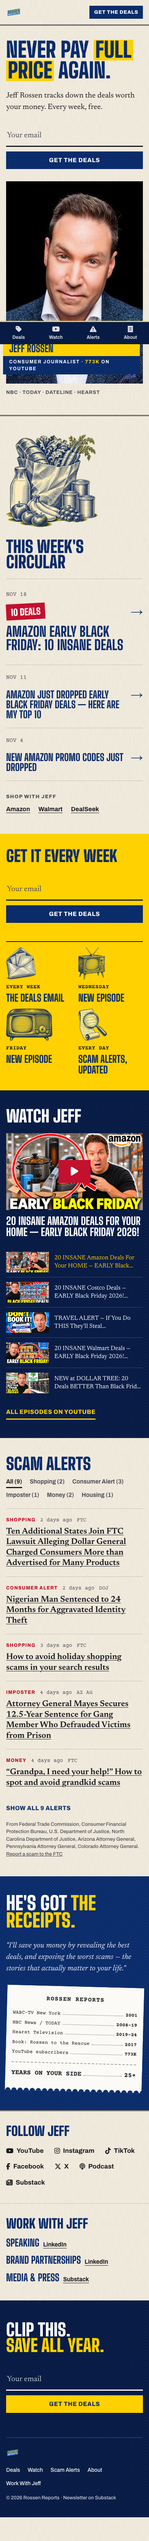
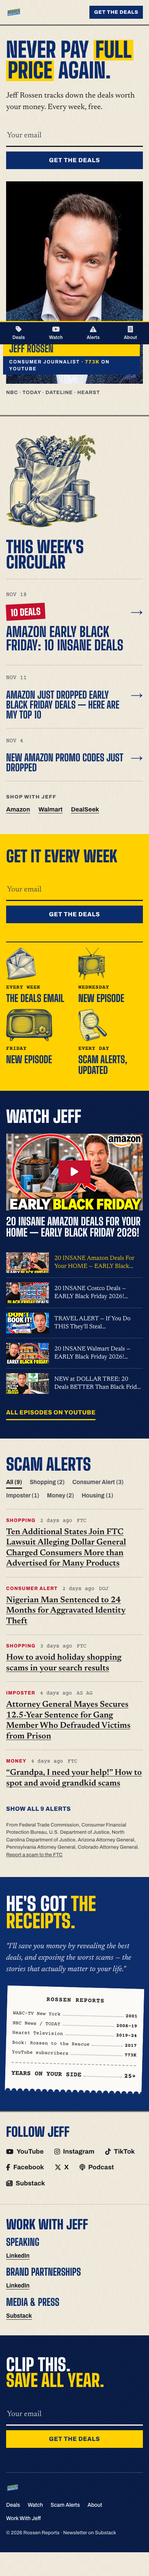
Desktop at 90% scale, looser circular type, even Work With Jeff columns
- Owner preferred 90% browser zoom: desktop now renders at that scale
  (CSS zoom from 861px); phones unchanged
- Circular deal titles: mixed case, smaller, open leading on desktop
- Work With Jeff: three equal columns, links on one shared line

diff --git a/index.html b/index.html
@@ -232,7 +232,8 @@ main:focus, section:focus, ol:focus { outline: none; }
 .link-list, .work { display: flex; flex-wrap: wrap; gap: 4px 28px; font-family: var(--f-label); font-weight: 700; font-size: 17px; }
 .link-list a { display: inline-flex; align-items: center; gap: 8px; padding: 6px 0; text-decoration: none; }
 .link-list a:hover, .work a:hover { color: var(--navy); text-decoration: underline; text-underline-offset: 4px; }
-.work li { display: flex; align-items: baseline; gap: 10px; padding: 4px 0; }
+.work { display: grid; grid-template-columns: repeat(3, minmax(0, 1fr)); gap: 20px clamp(24px, 4vw, 48px); }
+.work li { display: flex; flex-direction: column; align-items: flex-start; justify-content: space-between; gap: 8px; } /* links share a baseline even when a label wraps */
 .work b { font-family: var(--f-head); font-weight: 800; font-size: 26px; text-transform: uppercase; color: var(--navy); line-height: 1; }
 .work a { font-size: 15px; text-underline-offset: 4px; padding: 4px 0; }
 
@@ -330,6 +331,19 @@ main:focus, section:focus, ol:focus { outline: none; }
     .head-xl, .lower-third > b, .circ-list h3, .burst, .week-what, .signup-done, .player-title, .compact h2, .work b, .nl-title { font-weight: 400; letter-spacing: -.01em; }
     .hero h1 { font-size: clamp(46px, 7vw, 104px); line-height: 1; }
     body { font-size: 17px; }
+    /* The slab is wide and heavy: in capitals at these sizes the deal titles read
+       as one dark block. Mixed case, a size step down and open leading. */
+    .circ-list h3 { text-transform: none; letter-spacing: 0; font-size: clamp(22px, 1.9vw, 28px); line-height: 1.18; }
+    .circ-list li:first-child h3 { font-size: clamp(30px, 3vw, 44px); line-height: 1.1; }
+    .circ-list a { padding: 18px 0; }
+    .circ-list li:first-child a { padding: 26px 0 28px; }
+}
+
+/* Owner preferred the desktop layout at 90% browser zoom, so desktop renders at
+   that scale by default. Phones stay at full size: iOS zooms into fields below
+   16px. CSS zoom scales layout the same way browser zoom does. */
+@media (min-width: 861px) {
+    body { zoom: .9; }
 }
 
 @media print { .armed { opacity: 1 !important; clip-path: none !important; transform: none !important; } }
@@ -337,6 +351,7 @@ main:focus, section:focus, ol:focus { outline: none; }
 /* ── RESPONSIVE ── */
 @media (max-width: 980px) {
     .watch-grid, .receipts .wrap, .closer-grid, .band .wrap, .compact .wrap { grid-template-columns: 1fr; }
+    .work { grid-template-columns: 1fr; gap: 14px; }
     .tape { max-width: 420px; }
     .week { grid-template-columns: repeat(2, 1fr); gap: 0 20px; }
 }
